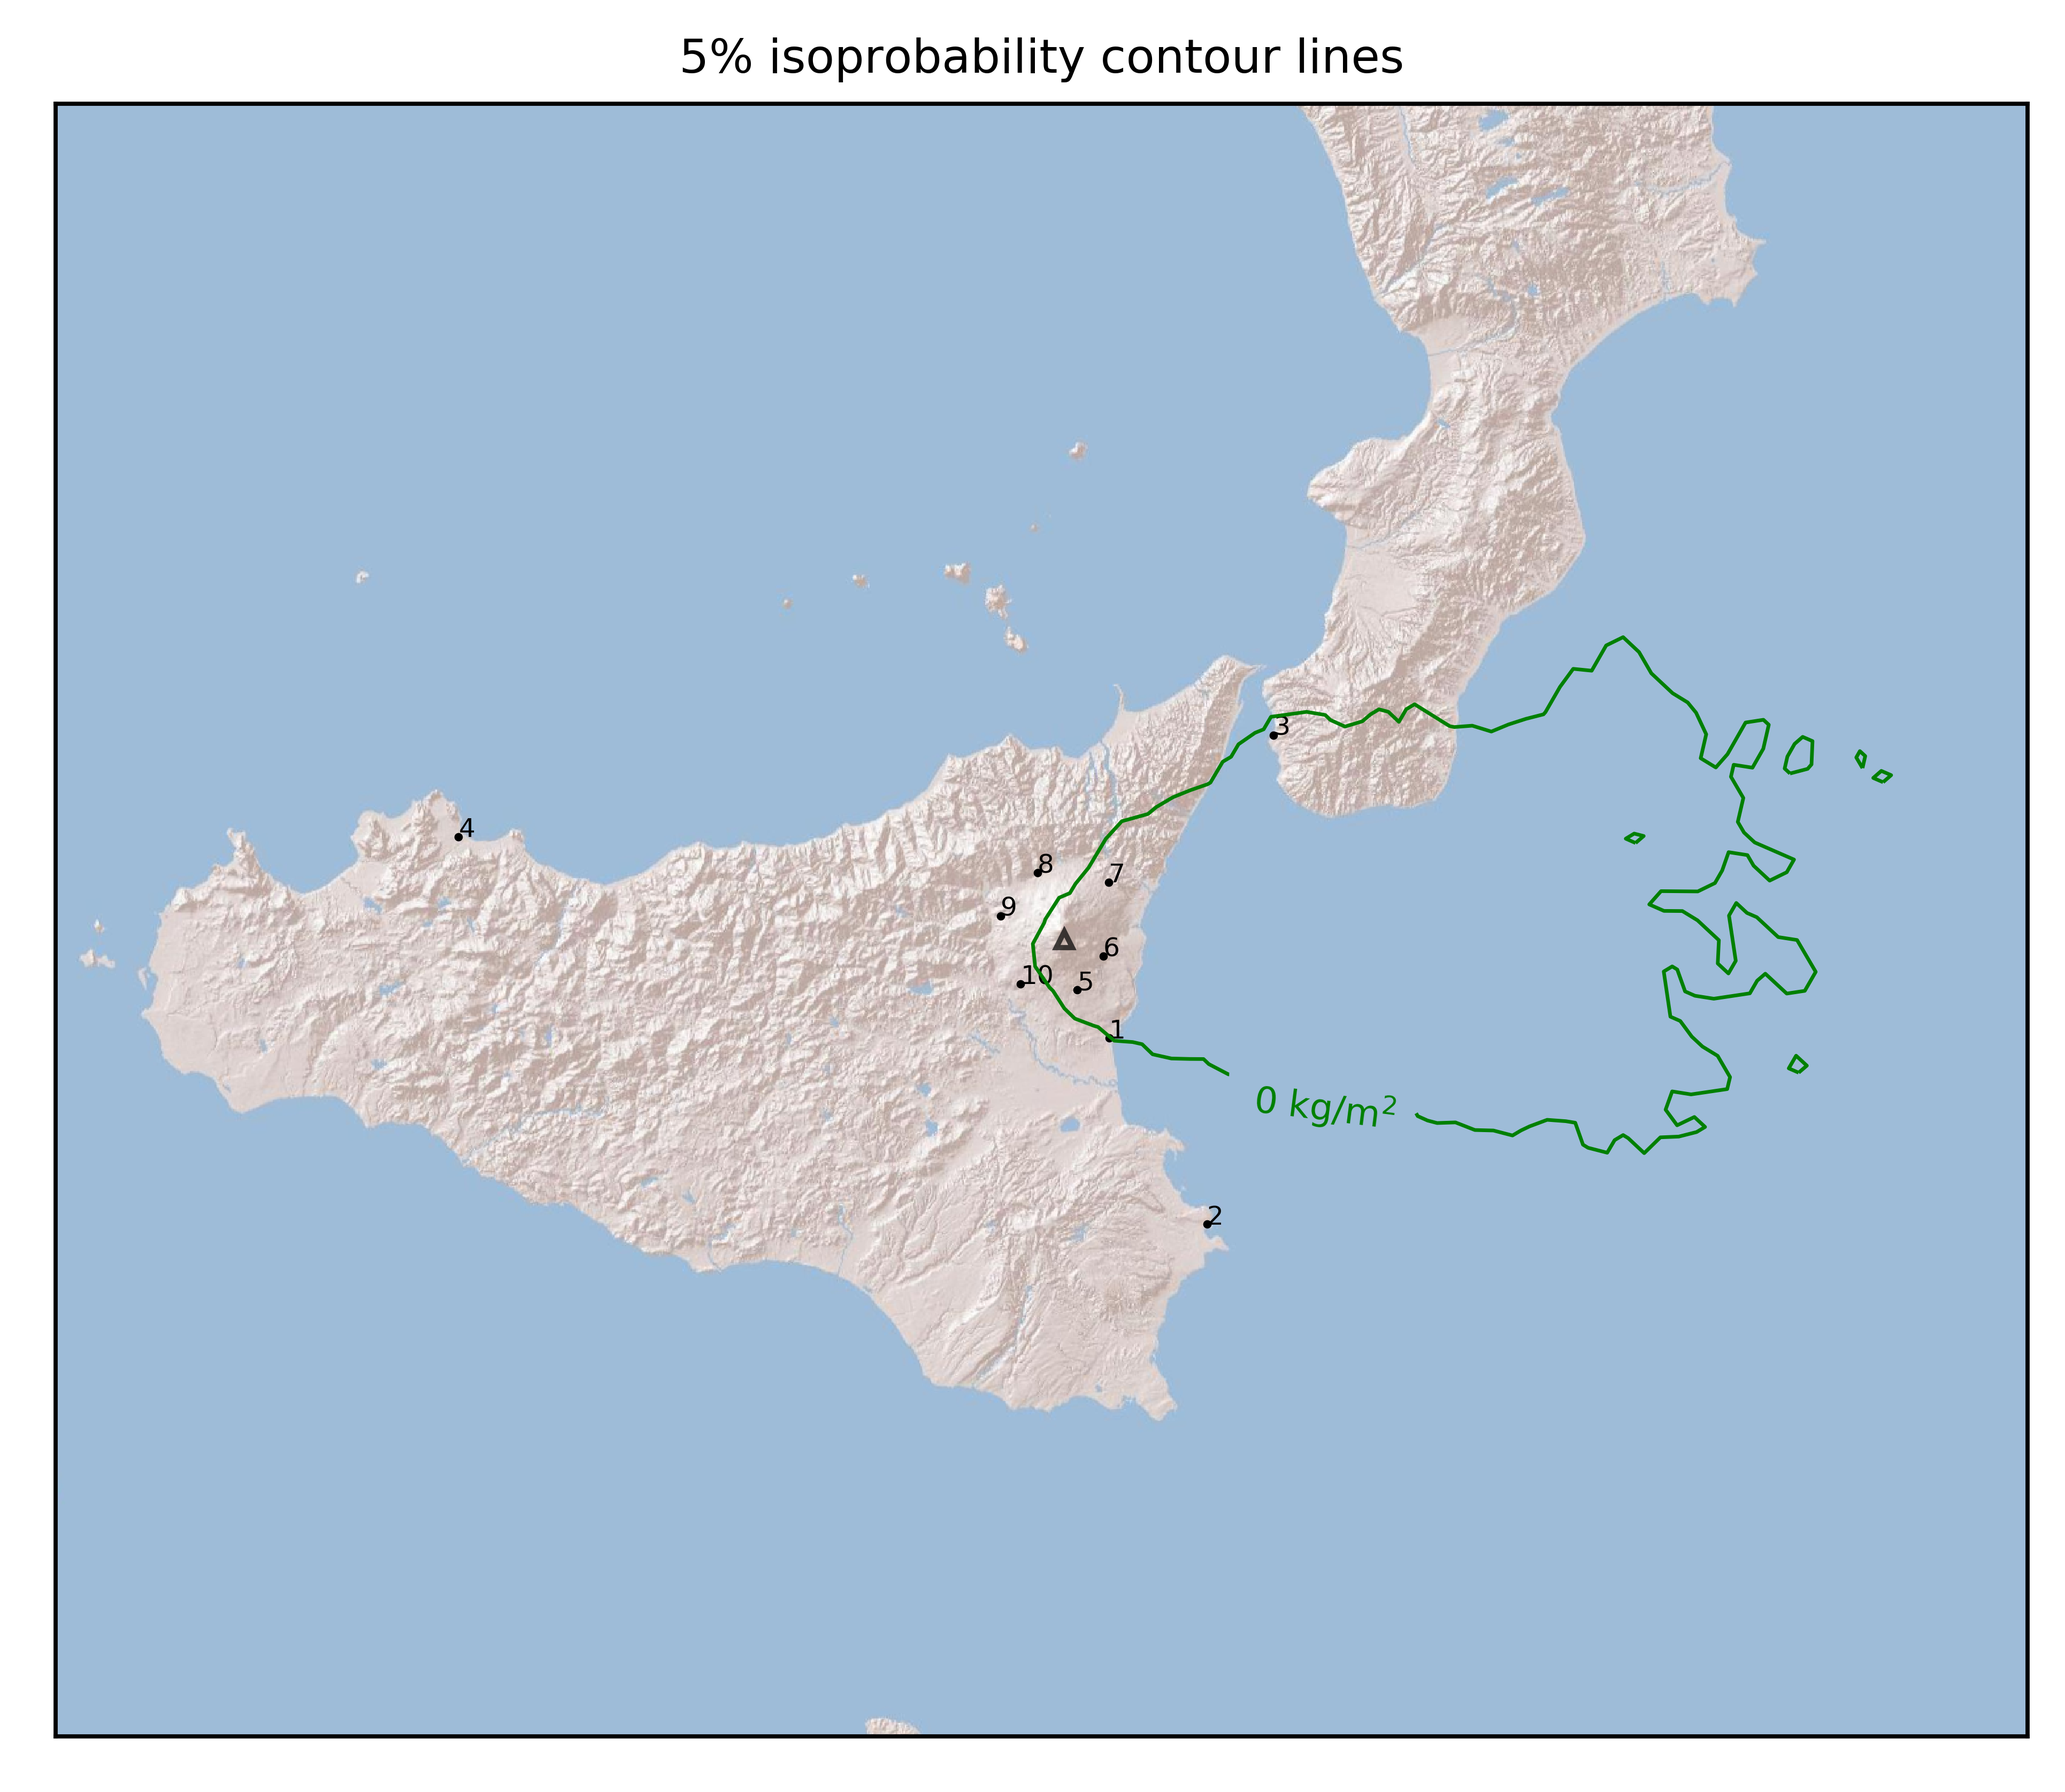
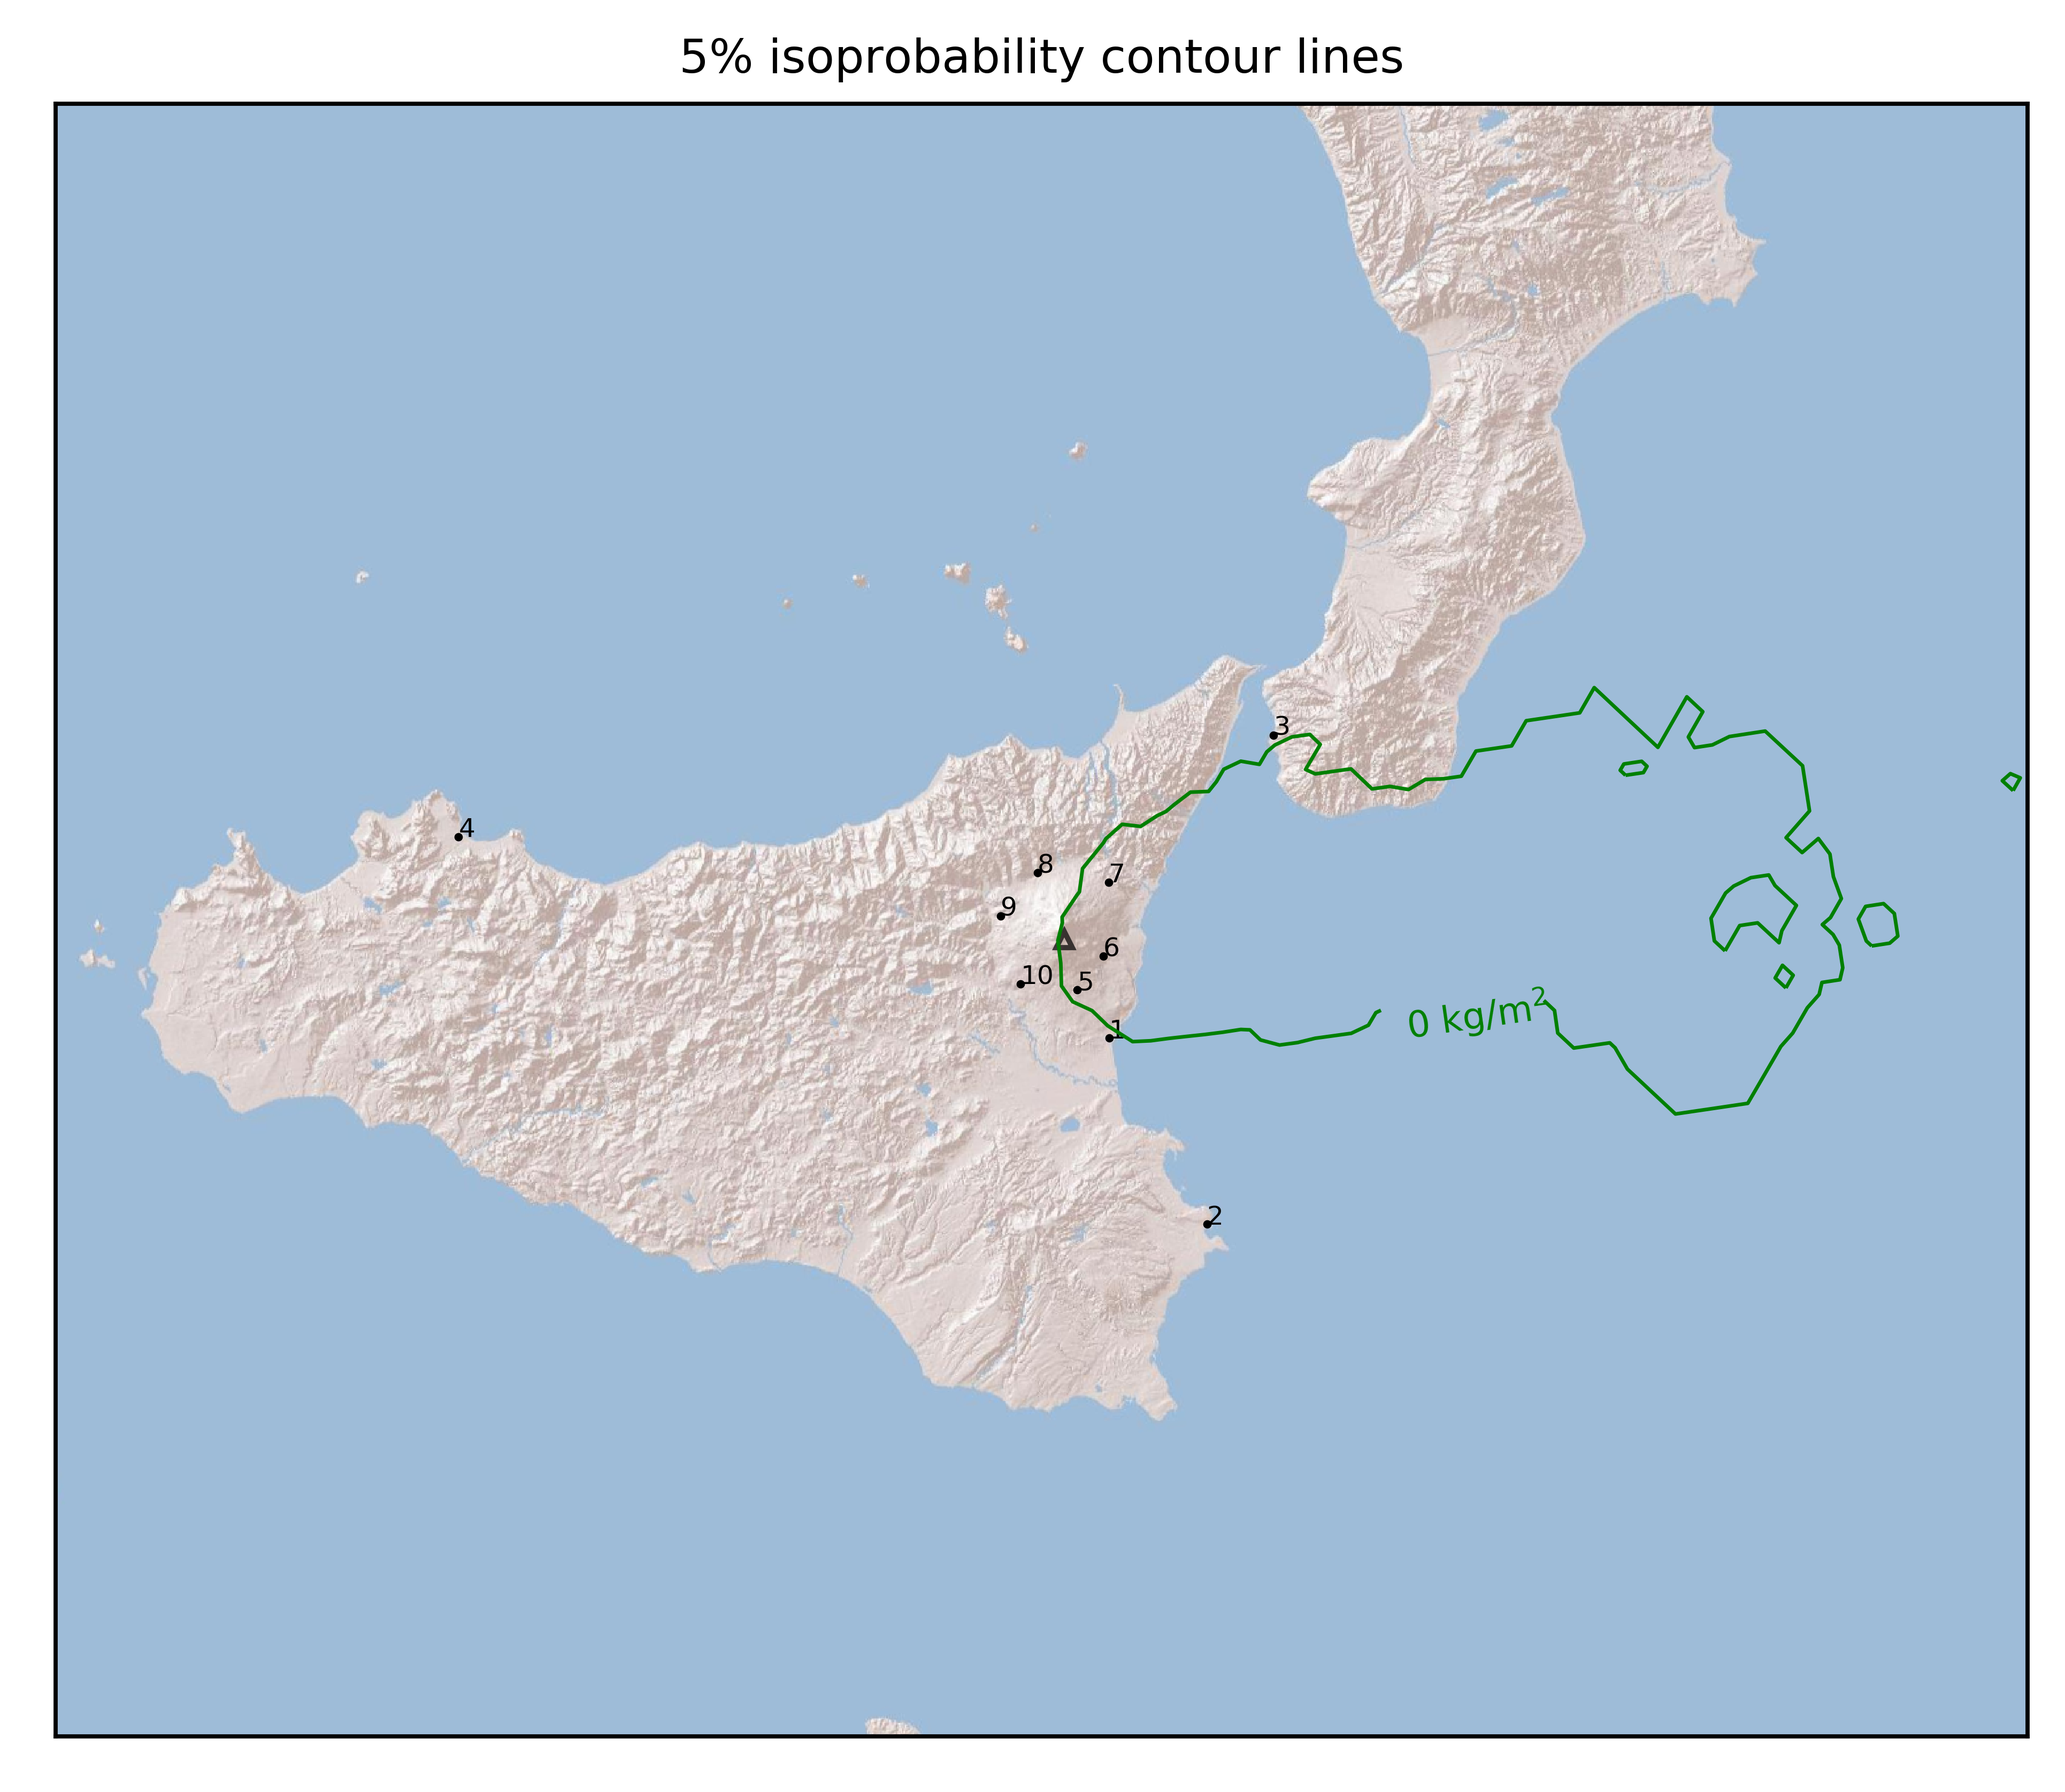
upload results

diff --git a/FORECAST_RESULTS/20210628_1441Z/README.md b/FORECAST_RESULTS/20210628_1441Z/README.md
@@ -13,6 +13,7 @@ Contents
 	* [Forecast at 2021-06-28 17:40 Z](#forecast-at-2021-06-28-1740-z)
 	* [Forecast at 2021-06-28 20:40 Z](#forecast-at-2021-06-28-2040-z)
 	* [Forecast at 2021-06-28 23:40 Z](#forecast-at-2021-06-28-2340-z)
+	* [Forecast at 2021-06-29 02:40 Z](#forecast-at-2021-06-29-0240-z)
 
 # Forecast products
 
@@ -337,6 +338,52 @@ Contents
 
 ### Atmosphere 2021-06-28 23:40 Z
   
-![](./figures/probability_air_2021_06_28_2340_scenario_1_conclev_1.png)  
+![](./figures/probability_air_2021_06_28_2340_scenario_1_conclev_1.png)
+## Forecast at 2021-06-29 02:40 Z
+  
+
+|Eruption start [Z]|Eruption end [Z]|Forecast time [Z]|Column height asl [m]|
+| :--- | :--- | :--- | :--- |
+|2021-06-28 14:40:00|2021-06-28 15:50:00|2021-06-29 02:40:00|None|
+  
+  
+
+|Percentile|MER [kg/s¹]|Mass in the air [kg]|Mass on the ground [kg]|
+| :--- | :--- | :--- | :--- |
+|5th|0.00e+00|9.80e-18|3.90e+05|
+|50th|0.00e+00|2.35e-04|4.03e+05|
+|95th|0.00e+00|1.96e+03|1.52e+07|
+  
+
+### Ground 2021-06-29 02:40 Z
+  
+![](./figures/probability_grd_2021_06_29_0240_scenario_1.png)  
+  
+  
+  
+  
+  
+  
+  
+  
+  
+
+|Location|Ground load [kg/m²] 5th perc|Ground load [kg/m²] 50th perc|Ground load [kg/m²] 95th perc|
+| :--- | :--- | :--- | :--- |
+|Catania AP (1)|0.00e+00|0.00e+00|2.19e-06|
+|Siracusa (2)|0.00e+00|0.00e+00|0.00e+00|
+|Reggio Calabria AP (3)|0.00e+00|0.00e+00|1.71e-06|
+|Palermo AP (4)|0.00e+00|0.00e+00|0.00e+00|
+|Nicolosi (5)|0.00e+00|0.00e+00|4.37e-05|
+|Zafferana (6)|7.39e-05|5.18e-04|9.70e-03|
+|Linguaglossa (7)|0.00e+00|1.40e-05|5.17e-04|
+|Randazzo (8)|0.00e+00|0.00e+00|0.00e+00|
+|Bronte (9)|0.00e+00|0.00e+00|0.00e+00|
+|Biancavilla (10)|0.00e+00|0.00e+00|0.00e+00|
+  
+
+### Atmosphere 2021-06-29 02:40 Z
+  
+![](./figures/probability_air_2021_06_29_0240_scenario_1_conclev_1.png)  
 Go to [Supplementary page](Supplementary_page.md)  
 Go to [Main directory](https://github.com/federicapardini/Real_time_ash_forecast)
